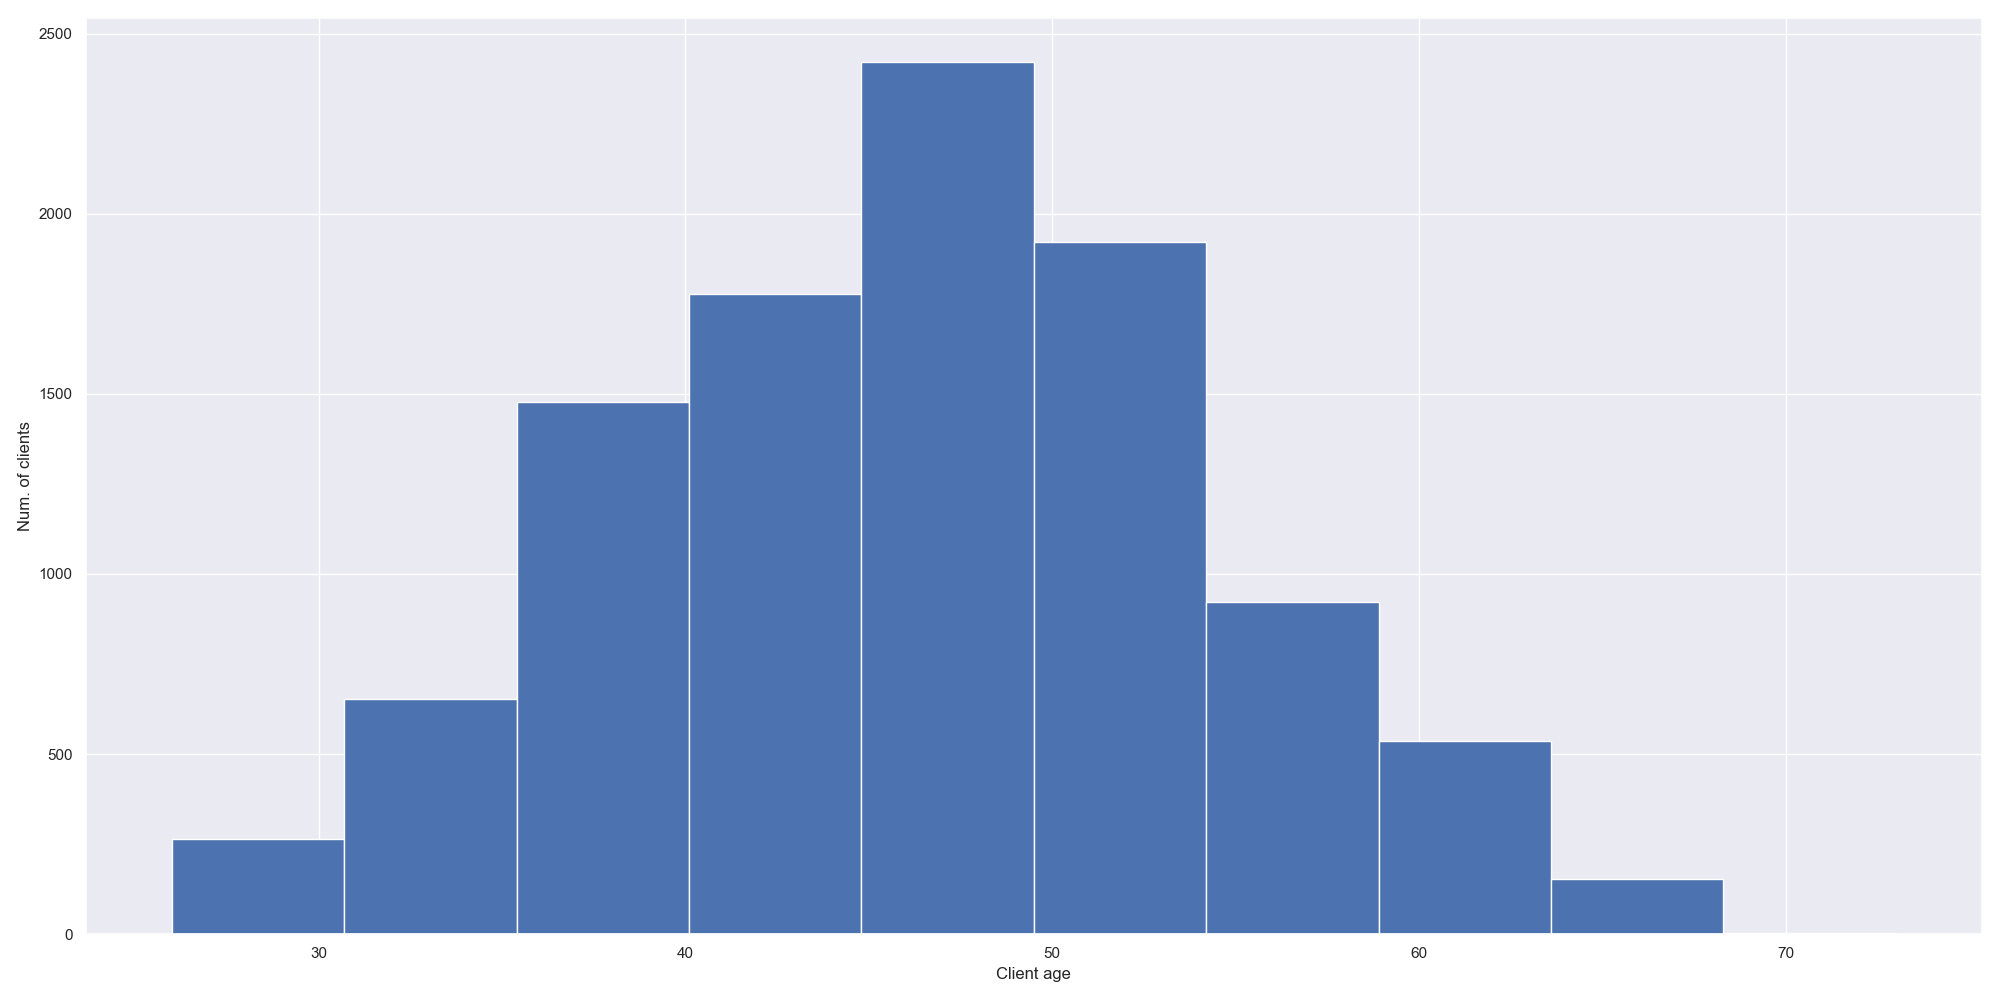
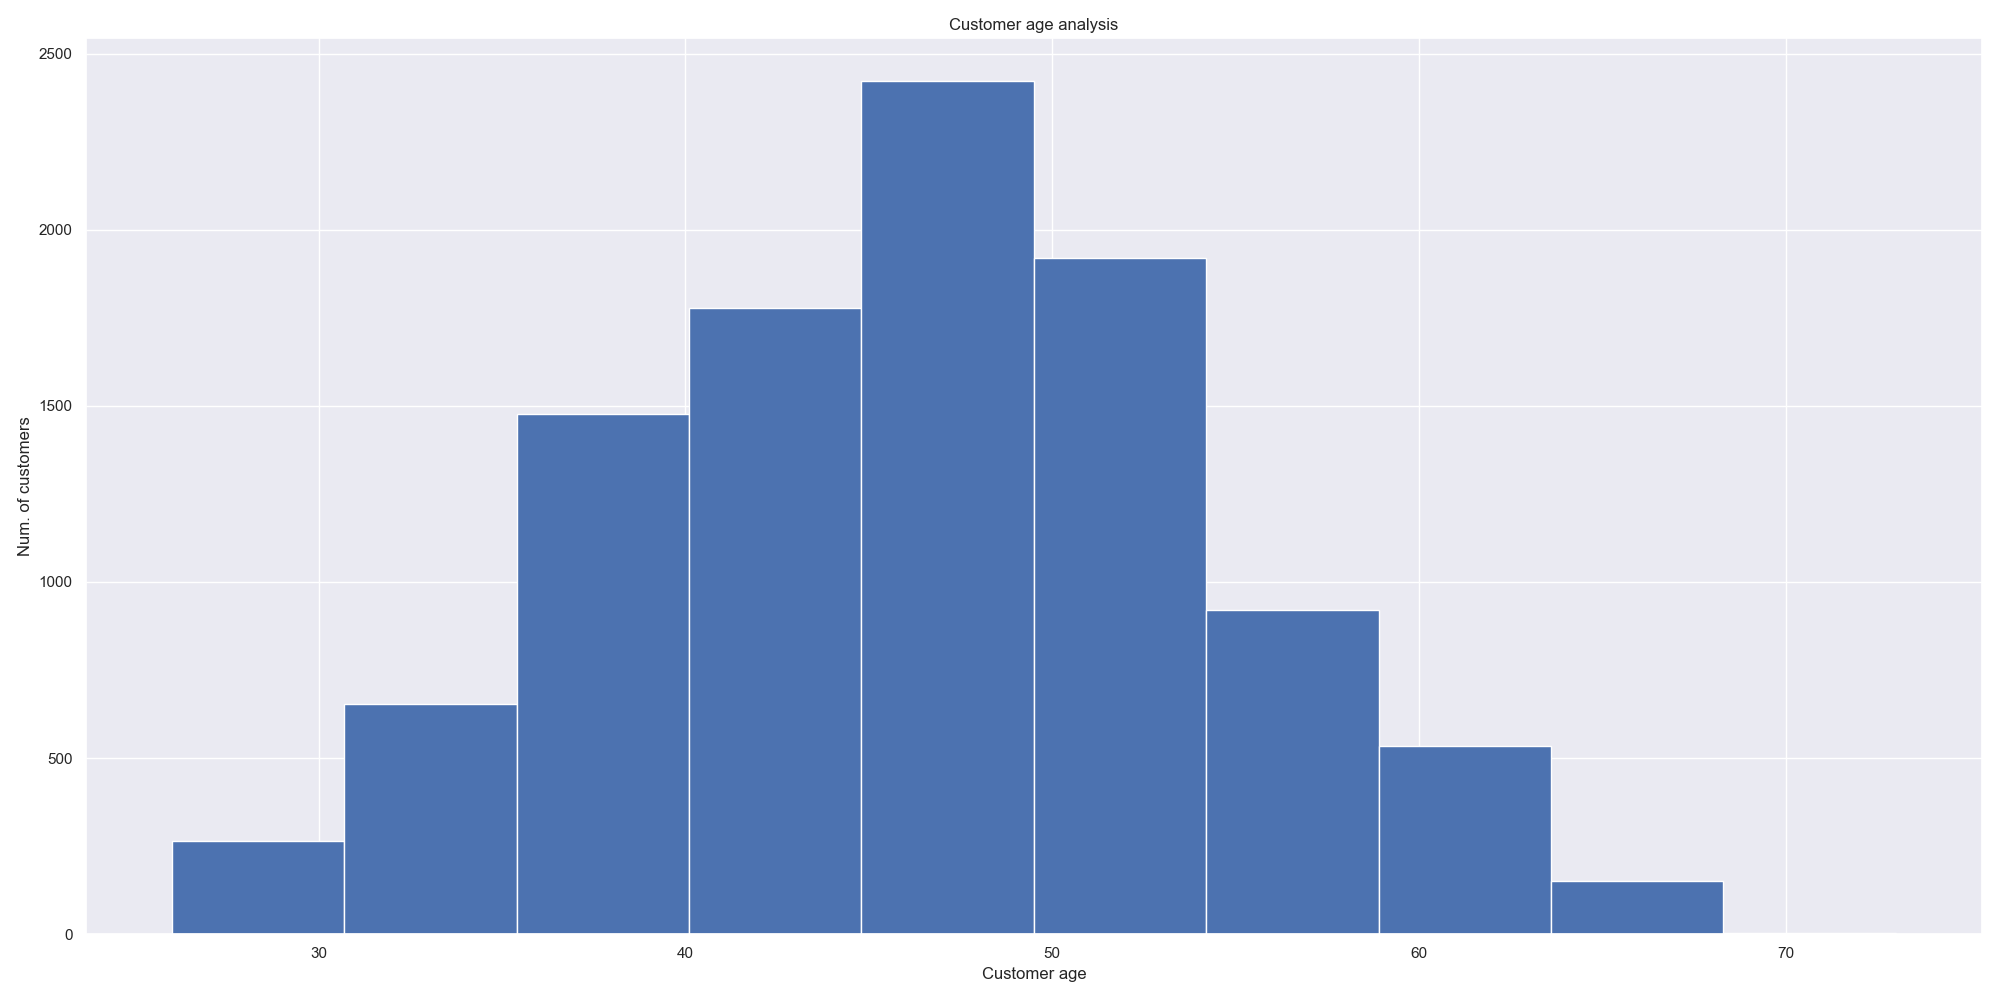
add titles and labels in the plots

diff --git a/churn_library.py b/churn_library.py
@@ -50,22 +50,25 @@ def perform_eda(df):
     plt.figure(figsize=(20, 10))
     plt.hist(df['Churn'])
     plt.axes().set_xlabel('Churn')
-    plt.axes().set_ylabel('Num. of clients')
+    plt.axes().set_ylabel('Num. of customers')
+    plt.axes().set_title('Churn analysis')
     plt.tight_layout()
     plt.savefig('./images/eda/churn_hist.png')
 
     plt.figure(figsize=(20, 10))
     plt.hist(df['Customer_Age'])
-    plt.axes().set_xlabel('Client age')
-    plt.axes().set_ylabel('Num. of clients')
+    plt.axes().set_xlabel('Customer age')
+    plt.axes().set_ylabel('Num. of customers')
+    plt.axes().set_title('Customer age analysis')
     plt.tight_layout()
     plt.savefig('./images/eda/age_hist.png')
 
     plt.figure(figsize=(20, 10))
     df['Marital_Status'].value_counts('normalize').plot(kind='bar')
     plt.axes().set_xlabel('Marital status')
-    plt.axes().set_ylabel('Num. of clients (%)')
+    plt.axes().set_ylabel('Num. of customers (%)')
     plt.axes().set_yticklabels([0, 10, 20, 30, 40, 50])
+    plt.axes().set_title('Marital status analysis')
     plt.tight_layout()
     plt.savefig('./images/eda/marital_hist.png')
 
